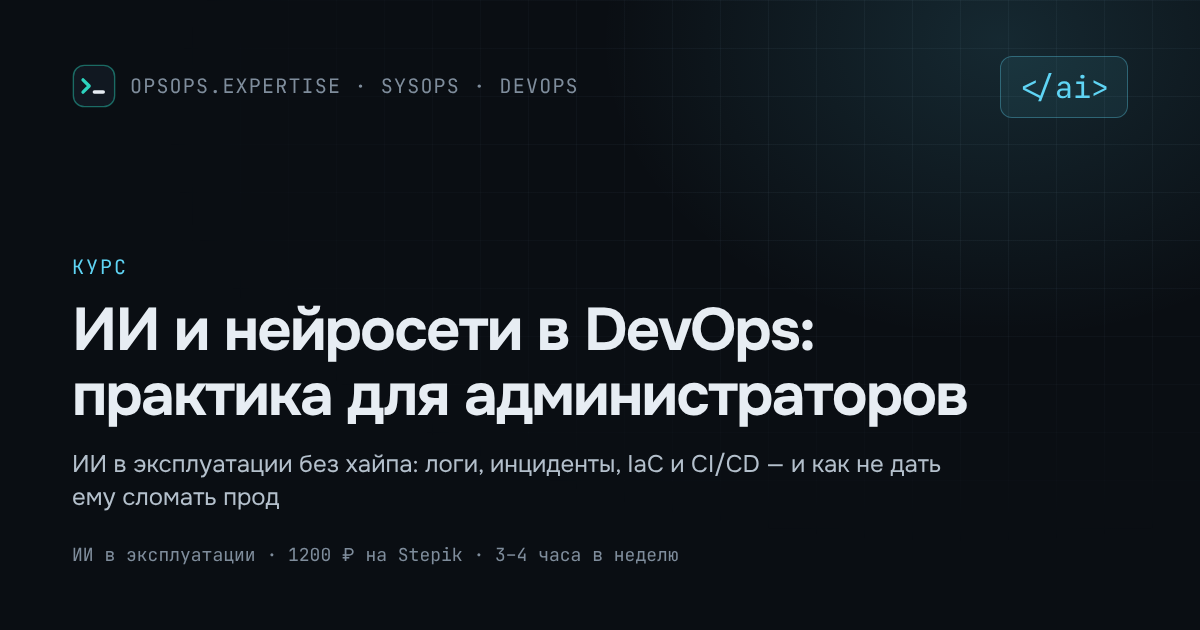
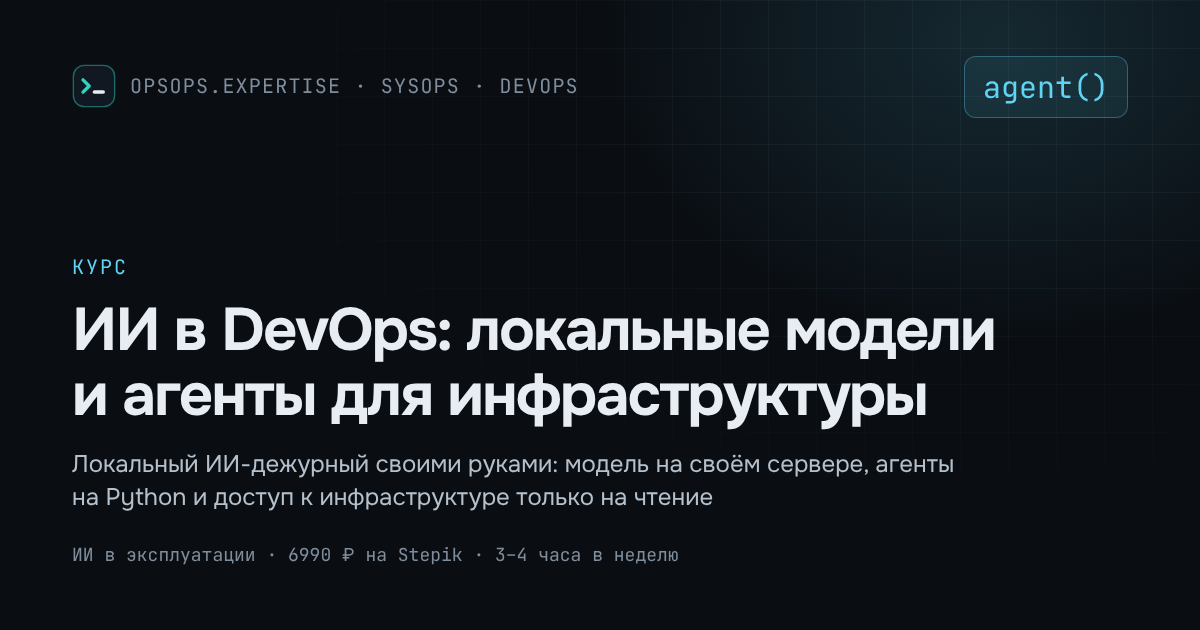
Курс «ИИ в DevOps»: новая программа (14 модулей, 120 уроков), цена 6990 ₽, промокод AIINFRA

diff --git a/src/data/paths.ts b/src/data/paths.ts
@@ -41,9 +41,9 @@ export const paths: LearningPath[] = [
     steps: [
       { course: 'gitlab-ci-troubleshooting', why: 'Диагностика и починка пайплайнов: раннер, Docker-in-CI, артефакты, Kaniko.' },
       { course: 'k3s-iot', why: 'K3s на флоте устройств: HA control plane, ARM/Jetson, нестабильная сеть, апгрейды.' },
-      { course: 'ai-devops', why: 'ИИ в разборе инцидентов, IaC, CI/CD и мониторинге — с ограничениями и human-in-the-loop.' },
+      { course: 'ai-devops', why: 'Локальная модель и агенты на Python, которые читают Kubernetes, GitLab и серверы только на чтение и помогают разбирать инциденты.' },
     ],
-    skills: ['Чеклист расследования падений CI/CD', 'Эксплуатация распределённого K3s-кластера', 'Безопасное применение ИИ в эксплуатации'],
+    skills: ['Чеклист расследования падений CI/CD', 'Эксплуатация распределённого K3s-кластера', 'Локальный ИИ-дежурный с доступом только на чтение'],
     next: 'Углубление в SRE-практики и наблюдаемость — в планах развития линейки.',
   },
 ];

diff --git a/src/data/types.ts b/src/data/types.ts
@@ -15,6 +15,8 @@ export interface Course {
   stepikId: number | null;
   /** Своя ссылка на Stepik (например короткая stepik.org/a/<id>); по умолчанию /course/<id>/promo */
   stepikLink?: string;
+  /** Промокод: показывается до даты until включительно (скрывается и при сборке, и в браузере) */
+  promo?: { code: string; percent: number; price: string; until: string };
   /** open — открыт для записи; soon — готовится или ещё не опубликован на Stepik (ссылка на Stepik не показывается); private — закрытый, приглашения не публикуем */
   status: CourseStatus;
   /** Порядок в каталоге */

diff --git a/src/data/courses.ts b/src/data/courses.ts
@@ -31,3 +31,7 @@ export const practiceLessons = (c: Course) =>
 /** Уроки без тестов — для подсчёта «теория + практика» */
 export const contentLessons = (m: { lessons: string[] }) =>
   m.lessons.filter((l) => lessonKind(l) !== 'quiz');
+
+/** Промокод активен на момент сборки (дата until включительно, по Москве) */
+export const activePromo = (c: Course) =>
+  c.promo && new Date(c.promo.until + 'T23:59:59+03:00') >= new Date() ? c.promo : null;

diff --git a/src/data/site.ts b/src/data/site.ts
@@ -14,5 +14,5 @@ export const SITE = {
   opsdeckRepo: 'https://github.com/LeoAlecksey/opsdeck',
   opsdeckSite: 'https://leoalecksey.github.io/opsdeck/',
   /** Дата, на которую сверены цены и программы с Stepik */
-  dataCheckedAt: '2026-11-03',
+  dataCheckedAt: '2026-11-05',
 } as const;

diff --git a/COURSE_CATALOG.md b/COURSE_CATALOG.md
@@ -9,7 +9,7 @@
 | 295196 | Ansible: паттерны и грабли продакшена (ansible-core 2.17+) | 2000 ₽ | 4–5 ч/нед | 5 / 20 + финальный проект | Средний | `/courses/ansible-production/` |
 | 295197 | GitLab CI: диагностика и починка пайплайнов — раннер, Kaniko | 1500 ₽ | 4–5 ч/нед | 5 / 19 + финальный проект | Средний | `/courses/gitlab-ci-troubleshooting/` |
 | 295180 | K3s для IoT: кластер на нестандартном железе | 2500 ₽ | 4–5 ч/нед | 5 / 21 + финальный проект | Продвинутый | `/courses/k3s-iot/` |
-| 300064 | ИИ и нейросети в DevOps: практика для администраторов | 1200 ₽ | 3–4 ч/нед | 5 / 20 | Средний | `/courses/ai-devops/` |
+| 300064 | ИИ в DevOps: локальные модели и агенты для инфраструктуры | 6990 ₽ (−50% по AIINFRA до 11.01.2027) | 3–4 ч/нед | 14 / 120 (32 лабы + финальный проект) | Средний | `/courses/ai-devops/` |
 | 304520 | Профессия: Специалист технической поддержки L1 | 2490 ₽ | 4–6 ч/нед | 11 / 110 (36 лаб + финальный проект) | С нуля | `/courses/l1-support-specialist/` |
 
 \* уроки на Stepik, включая тесты-квизы.

diff --git a/CHANGELOG.md b/CHANGELOG.md
@@ -1,5 +1,9 @@
 # Changelog
 
+## 0.3.0 — 2026-11-05
+- Курс «ИИ в DevOps» обновлён по новой программе на Stepik: «ИИ в DevOps: локальные модели и агенты для инфраструктуры», 14 модулей, 120 уроков, 6990 ₽. Пока курс закрыт на Stepik — статус «Скоро открытие».
+- Промокоды: поле `promo` в данных курса; плашка скрывается автоматически после даты окончания. AIINFRA −50% до 11.01.2027.
+
 ## 0.2.1 — 2026-11-03
 - Курс «Специалист технической поддержки L1» опубликован на Stepik: статус «Открыт для записи», кнопка ведёт на https://stepik.org/a/304520.
 
